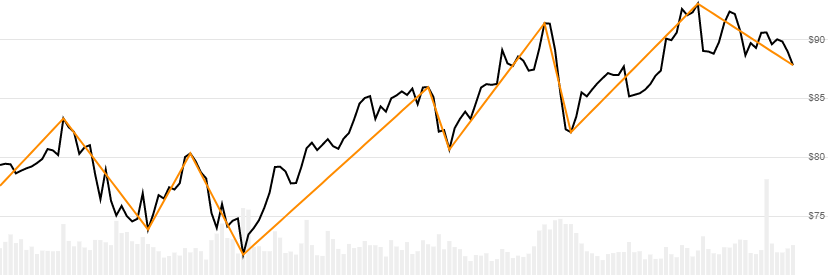
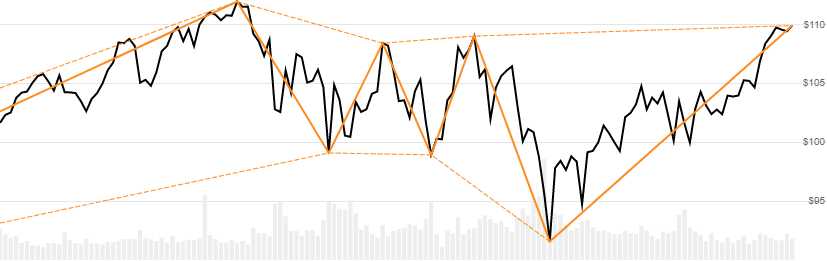
chore: update docs (#437)
* update zig zag chart
* update ROC docs
* add sponshorship file

diff --git a/indicators/Roc/README.md b/indicators/Roc/README.md
@@ -76,7 +76,7 @@ IEnumerable<RocWbResult> results =
 | name | type | notes
 | -- |-- |--
 | `history` | IEnumerable\<[TQuote](../../docs/GUIDE.md#historical-quotes)\> | Historical price quotes should have a consistent frequency (day, hour, minute, etc).
-| `lookbackPeriod` | int | Number of periods (`N`) to go back.  Must be greater than 0.
+| `lookbackPeriod` | int | Number of periods (`N`) to go back.  Must be greater than 0.  Typical values range from 10-20.
 | `emaPeriod` | int | Number of periods for the ROC EMA line.  Must be greater than 0.  Standard is 3.
 | `stdDevPeriod` | int | Number of periods the standard deviation for upper/lower band lines.  Must be greater than 0 and not more than `lookbackPeriod`.  Standard is to use same value as `lookbackPeriod`.
 
